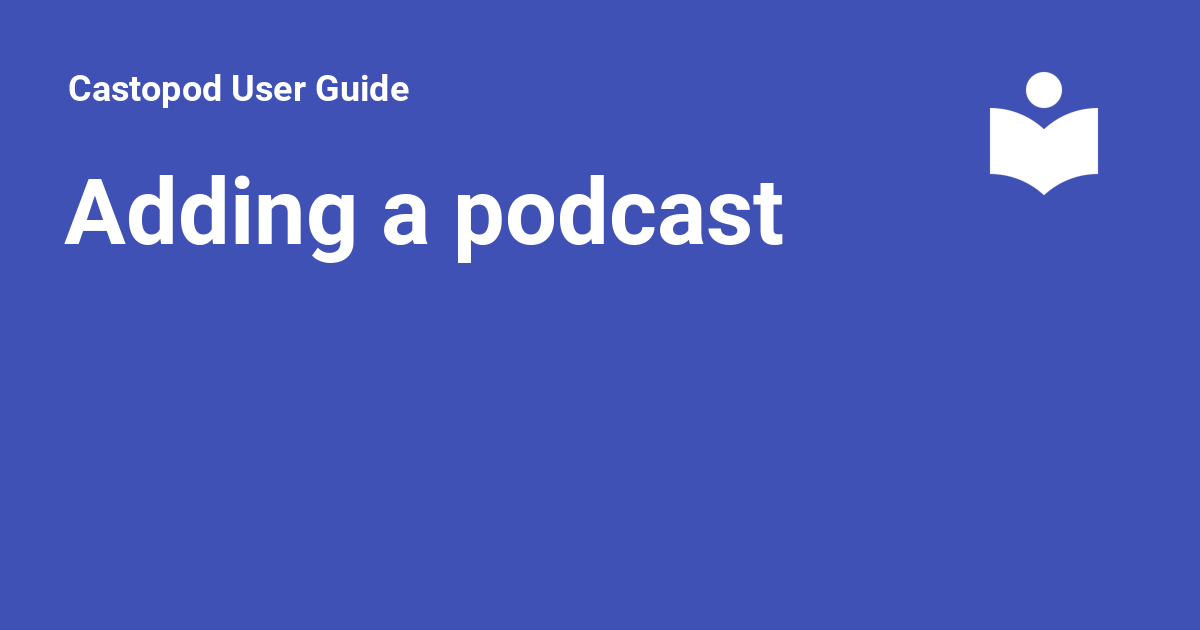
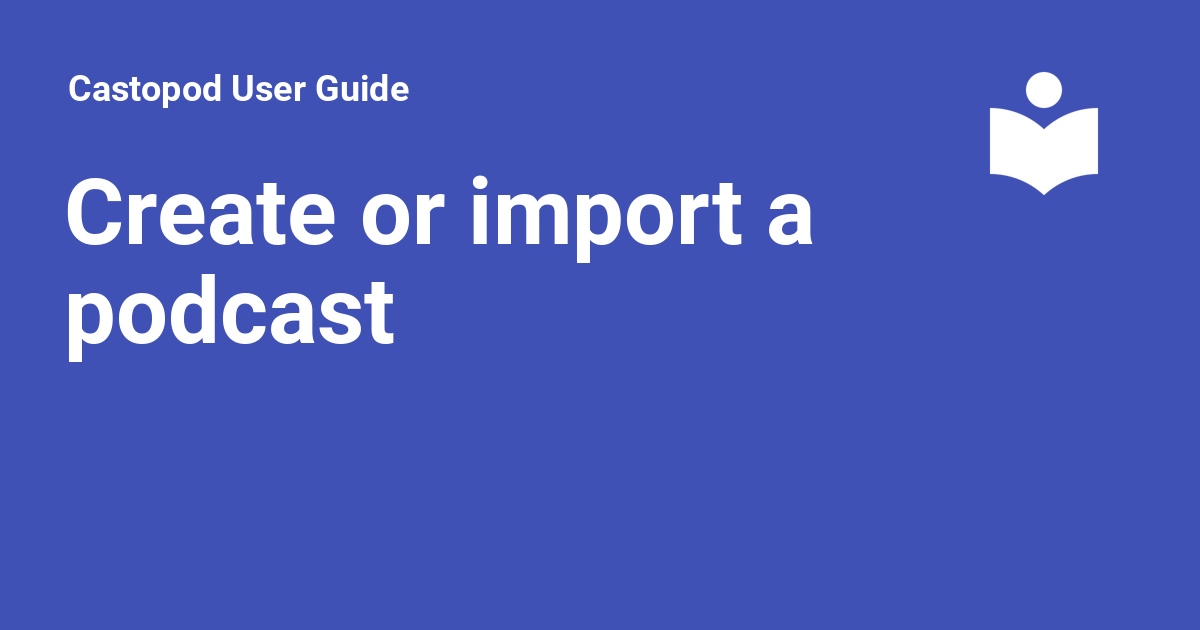
Deployed e019284 with MkDocs version: 1.6.1

Changed region(s): [[0.0308, 0.2714, 0.6783, 0.4222], [0.0308, 0.4222, 0.3392, 0.573]]

diff --git a/instance/add-podcast/index.html b/instance/add-podcast/index.html
@@ -22,7 +22,7 @@
     
     
       
-        <title>Adding a podcast - Castopod User Guide</title>
+        <title>Create or import a podcast - Castopod User Guide</title>
       
     
     
@@ -57,7 +57,7 @@
       
         <meta  property="og:type"  content="website" >
       
-        <meta  property="og:title"  content="Adding a podcast - Castopod User Guide" >
+        <meta  property="og:title"  content="Create or import a podcast - Castopod User Guide" >
       
         <meta  property="og:description"  content="None" >
       
@@ -73,7 +73,7 @@
       
         <meta  name="twitter:card"  content="summary_large_image" >
       
-        <meta  name="twitter:title"  content="Adding a podcast - Castopod User Guide" >
+        <meta  name="twitter:title"  content="Create or import a podcast - Castopod User Guide" >
       
         <meta  name="twitter:description"  content="None" >
       
@@ -100,7 +100,7 @@
     <div data-md-component="skip">
       
         
-        <a href="#adding-a-podcast" class="md-skip">
+        <a href="#create-or-import-a-podcast" class="md-skip">
           Skip to content
         </a>
       
@@ -136,7 +136,7 @@
         <div class="md-header__topic" data-md-component="header-topic">
           <span class="md-ellipsis">
             
-              Adding a podcast
+              Create or import a podcast
             
           </span>
         </div>
@@ -528,7 +528,7 @@
           
   
   <span class="md-ellipsis">
-    Adding a podcast
+    Create or import a podcast
   </span>
   
 
@@ -539,7 +539,7 @@
         
   
   <span class="md-ellipsis">
-    Adding a podcast
+    Create or import a podcast
   </span>
   
 
@@ -773,6 +773,30 @@
       Import an existing podcast
     </span>
   </a>
+  
+    <nav class="md-nav" aria-label="Import an existing podcast">
+      <ul class="md-nav__list">
+        
+          <li class="md-nav__item">
+  <a href="#import-the-podcast" class="md-nav__link">
+    <span class="md-ellipsis">
+      Import the podcast
+    </span>
+  </a>
+  
+</li>
+        
+          <li class="md-nav__item">
+  <a href="#podcast-information" class="md-nav__link">
+    <span class="md-ellipsis">
+      Podcast information
+    </span>
+  </a>
+  
+</li>
+        
+      </ul>
+    </nav>
   
 </li>
       
@@ -1326,6 +1350,30 @@
     </span>
   </a>
   
+    <nav class="md-nav" aria-label="Import an existing podcast">
+      <ul class="md-nav__list">
+        
+          <li class="md-nav__item">
+  <a href="#import-the-podcast" class="md-nav__link">
+    <span class="md-ellipsis">
+      Import the podcast
+    </span>
+  </a>
+  
+</li>
+        
+          <li class="md-nav__item">
+  <a href="#podcast-information" class="md-nav__link">
+    <span class="md-ellipsis">
+      Podcast information
+    </span>
+  </a>
+  
+</li>
+        
+      </ul>
+    </nav>
+  
 </li>
       
     </ul>
@@ -1346,7 +1394,7 @@
   
 
 
-<h1 id="adding-a-podcast">Adding a podcast</h1>
+<h1 id="create-or-import-a-podcast">Create or import a podcast</h1>
 <p>You can create a new podcast or import an existing podcast into Castopod in the Podcasts section.</p>
 <p>From the left hand navigation sidebar, press the <code>+</code> sign to the right of Podcasts to create your first podcast.</p>
 <h2 id="podcast-identity">Podcast Identity</h2>
@@ -1417,6 +1465,19 @@ know there will not be new episodes.</p>
 <h2 id="import-an-existing-podcast">Import an existing podcast</h2>
 <p>When importing a podcast, make sure you own the rights for this podcast before importing it. 
 Copying and broadcasting a podcast without the proper rights is piracy and is liable to prosecution.</p>
+<h3 id="import-the-podcast">Import the podcast</h3>
+<p>To import a podcast, enter the podcast's Feed URL.  The feed must be in XML or RSS format.  You may want to validate 
+the feed to make sure there are no errors in the RSS or XML feed prior to importing as errors may cause the import 
+to fail.  One popular feed validator is <a href="https://www.castfeedvalidator.com">Cast Feed Validator</a> from 
+Blubrry Podcasting.</p>
+<h3 id="podcast-information">Podcast information</h3>
+<p>Enter the handle for your podcast.  This will be part of the URL for others to interact with your podcast on the 
+Fediverse.  It will be yourdomain.com/@nameofyourpodcast.</p>
+<p>Choose the language your podcast is recorded in from the drop down box.</p>
+<p>Lastly, choose the Category of your podcast, such as Sports, Technology, Arts, etc.</p>
+<p>When complete, click Add import to queue.  You will then be redirected to a Podcast imports page to view the status 
+of the import.  You can refresh the page to see the status of the import including the import duration and how many 
+episodes were imported.</p>
 <div class="admonition note">
 <p class="admonition-title">Note</p>
 <p>If your import times out, check your <code>max_execution_time</code> in your <code>PHP.ini</code> file.  You may need to increase it 

diff --git a/instance/persons/index.html b/instance/persons/index.html
@@ -514,7 +514,7 @@
         
   
   <span class="md-ellipsis">
-    Adding a podcast
+    Create or import a podcast
   </span>
   
 
@@ -908,7 +908,7 @@
       <nav class="md-footer__inner md-grid" aria-label="Footer" >
         
           
-          <a href="../add-podcast/" class="md-footer__link md-footer__link--prev" aria-label="Previous: Adding a podcast">
+          <a href="../add-podcast/" class="md-footer__link md-footer__link--prev" aria-label="Previous: Create or import a podcast">
             <div class="md-footer__button md-icon">
               
               <svg xmlns="http://www.w3.org/2000/svg" viewBox="0 0 24 24"><path d="M20 11v2H8l5.5 5.5-1.42 1.42L4.16 12l7.92-7.92L13.5 5.5 8 11z"/></svg>
@@ -918,7 +918,7 @@
                 Previous
               </span>
               <div class="md-ellipsis">
-                Adding a podcast
+                Create or import a podcast
               </div>
             </div>
           </a>

diff --git a/instance/index.html b/instance/index.html
@@ -519,7 +519,7 @@
         
   
   <span class="md-ellipsis">
-    Adding a podcast
+    Create or import a podcast
   </span>
   
 
@@ -956,13 +956,13 @@ Or visit the sections below to learn more about the different settings in your i
         
         
           
-          <a href="add-podcast/" class="md-footer__link md-footer__link--next" aria-label="Next: Adding a podcast">
+          <a href="add-podcast/" class="md-footer__link md-footer__link--next" aria-label="Next: Create or import a podcast">
             <div class="md-footer__title">
               <span class="md-footer__direction">
                 Next
               </span>
               <div class="md-ellipsis">
-                Adding a podcast
+                Create or import a podcast
               </div>
             </div>
             <div class="md-footer__button md-icon">

diff --git a/404.html b/404.html
@@ -482,7 +482,7 @@
         
   
   <span class="md-ellipsis">
-    Adding a podcast
+    Create or import a podcast
   </span>
   
 

diff --git a/getting-started/create-episode/index.html b/getting-started/create-episode/index.html
@@ -670,7 +670,7 @@
         
   
   <span class="md-ellipsis">
-    Adding a podcast
+    Create or import a podcast
   </span>
   
 

diff --git a/getting-started/create-podcast/index.html b/getting-started/create-podcast/index.html
@@ -766,7 +766,7 @@
         
   
   <span class="md-ellipsis">
-    Adding a podcast
+    Create or import a podcast
   </span>
   
 

diff --git a/getting-started/index.html b/getting-started/index.html
@@ -519,7 +519,7 @@
         
   
   <span class="md-ellipsis">
-    Adding a podcast
+    Create or import a podcast
   </span>
   
 

diff --git a/getting-started/install/index.html b/getting-started/install/index.html
@@ -564,7 +564,7 @@
         
   
   <span class="md-ellipsis">
-    Adding a podcast
+    Create or import a podcast
   </span>
   
 

diff --git a/index.html b/index.html
@@ -584,7 +584,7 @@
         
   
   <span class="md-ellipsis">
-    Adding a podcast
+    Create or import a podcast
   </span>
   
 

diff --git a/instance/fediverse/index.html b/instance/fediverse/index.html
@@ -514,7 +514,7 @@
         
   
   <span class="md-ellipsis">
-    Adding a podcast
+    Create or import a podcast
   </span>
   
 

diff --git a/instance/pages/index.html b/instance/pages/index.html
@@ -514,7 +514,7 @@
         
   
   <span class="md-ellipsis">
-    Adding a podcast
+    Create or import a podcast
   </span>
   
 

diff --git a/instance/settings/index.html b/instance/settings/index.html
@@ -514,7 +514,7 @@
         
   
   <span class="md-ellipsis">
-    Adding a podcast
+    Create or import a podcast
   </span>
   
 
